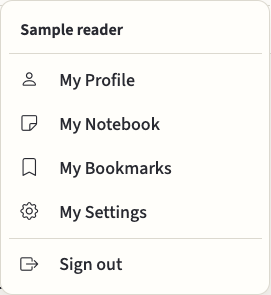
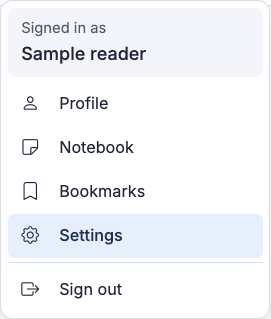
Give account dropdowns a distinct identity and navigation hierarchy

diff --git a/docs/design-system/library.html b/docs/design-system/library.html
@@ -33,7 +33,7 @@
   </section>
   <section id="navigation"><h2>Navigation &amp; discovery</h2>
     <div class="grid">
-      <article><h3>Site navigation preview</h3><picture><source media="(max-width: 700px)" srcset="shell/header-phone.png"><img src="shell/header.png" alt="Beta masthead with a left menu trigger, brand, navigation, search and account"></picture><p>Show full navigation from 992 px. The global search button uses an inset surface, the label “Search the library”, and a platform-specific keyboard shortcut. Leave .85 rem inside each end of the desktop pill, measured to the magnifier and shortcut respectively. Below 992 px, a magnifier opens the same dialog. Keep menu, search and account reachable at both sizes. Group the drawer into Read &amp; study, Memorize, Community and Personal. The signed-in avatar menu shows the account name, labeled personal destinations with drawer icons, and a separate sign-out row. The footer preview uses a compact Midnight band with a small wordmark and inline links. On phones, each navigation group starts a new row with touch-sized links.</p><p><a href="shell/account.png">View the avatar menu</a> · <a href="shell/menu.png">View the mobile menu</a> · <a href="shell/footer.png">View the desktop footer</a></p></article>
+      <article><h3>Site navigation preview</h3><picture><source media="(max-width: 700px)" srcset="shell/header-phone.png"><img src="shell/header.png" alt="Beta masthead with a left menu trigger, brand, navigation, search and account"></picture><p>Show full navigation from 992 px. The global search button uses an inset surface, the label “Search the library”, and a platform-specific keyboard shortcut. Leave .85 rem inside each end of the desktop pill, measured to the magnifier and shortcut respectively. Below 992 px, a magnifier opens the same dialog. Keep menu, search and account reachable at both sizes. Group the drawer into Read &amp; study, Memorize, Community and Personal. Dropdown hierarchy (under review): the avatar menu groups identity in an inset header, destinations in one icon column, and Sign out below a divider. Set the identity caption at .82rem Regular, the account name at 1rem Medium and destination rows at .9rem Regular. Mark the current destination with Medium and a tinted surface. Give each row at least 44px of height. The footer preview uses a compact Midnight band with a small wordmark and inline links. On phones, each navigation group starts a new row with touch-sized links.</p><p><a href="shell/account.png">View the avatar menu</a> · <a href="shell/menu.png">View the mobile menu</a> · <a href="shell/footer.png">View the desktop footer</a></p></article>
       <article><h3>Category rail &amp; local search</h3><picture><source media="(max-width: 700px)" srcset="settings/rail-mobile.png"><img src="settings/rail.png" alt="Compact Search settings field above the category links"></picture><p>Place the Settings category rail to the right of the panels, with the shared full-width rail search above its links. Books and Settings use the same field, funnel icon, clear button, focus ring and side gutters. Name its scope in the placeholder and accessible label. Below 992 px, the rail moves above the content and category links occupy two columns.</p><p>Match nested controls and asynchronously loaded catalogs. Announce the count or empty state. Clear and Escape restore the previous disclosures and return focus to the field.</p></article>
       <article><h3>Disclosure with current value</h3><img src="settings/disclosures.png" alt="Reading and listening rows with their saved values"><p>Group settings by task. Use a native details/summary row with a short label, current value or count, and a chevron. Place the summary below the label on narrow screens. Opening one row keeps the others available.</p></article>
     </div>

diff --git a/public/static/css/ux-shell.css b/public/static/css/ux-shell.css
@@ -89,17 +89,29 @@
   .ux-footer-inner { align-items: flex-start; flex-direction: column; }
 }
 
-.ux-masthead [data-profile-menu] {
-  width: min(15rem, calc(100vw - 1rem)); padding: .4rem; margin-top: .3rem;
+.ux-masthead .ux-dropdown {
+  width: min(15rem, calc(100vw - 1rem)); padding: .35rem; margin-top: .3rem;
   background: var(--shell-surface); color: var(--shell-ink); border: 1px solid var(--shell-line);
   border-radius: .7rem; box-shadow: 0 .5rem 1.5rem #1618251a;
 }
-.ux-account-name { padding: .55rem .65rem; margin-bottom: .25rem; border-bottom: 1px solid var(--shell-line); font-weight: var(--ux-heading-weight); overflow-wrap: anywhere; }
-.ux-masthead [data-profile-menu] .dropdown-item {
-  display: flex; align-items: center; gap: .7rem; min-height: 44px; padding: .35rem .65rem;
-  border-radius: .35rem; color: inherit; font: var(--ux-emphasis-weight) 1rem/1.35 var(--ux-font-ui);
+.ux-dropdown-identity {
+  display: grid; gap: .15rem; padding: .65rem .75rem; margin-bottom: .25rem;
+  background: var(--ivory-inset, var(--bs-tertiary-bg)); border-radius: .45rem;
 }
-.ux-masthead [data-profile-menu] .dropdown-item:is(:hover,:focus) { background: var(--bs-tertiary-bg); }
-.ux-masthead [data-profile-signout] { margin-top: .2rem; padding-top: .2rem; border-top: 1px solid var(--shell-line); }
+.ux-dropdown-caption { color: var(--bs-secondary-color); font: var(--ux-body-weight) var(--ux-caption-size)/1.35 var(--ux-font-ui); }
+.ux-account-name { font: var(--ux-emphasis-weight) 1rem/1.3 var(--ux-font-ui); overflow-wrap: anywhere; }
+.ux-masthead .ux-dropdown .dropdown-item {
+  display: flex; align-items: center; gap: .65rem; min-height: 44px; padding: .35rem .75rem;
+  border-radius: .35rem; color: inherit; font: var(--ux-body-weight) var(--ux-local-nav-size)/1.4 var(--ux-font-ui);
+}
+.ux-masthead .ux-dropdown .dropdown-item[aria-current="page"] {
+  color: var(--ivory-heading, var(--shell-ink)); background: var(--ivory-selected, var(--bs-secondary-bg)); font-weight: var(--ux-emphasis-weight);
+}
+.ux-masthead .ux-dropdown .dropdown-item:is(:hover,:focus) { background: var(--bs-tertiary-bg); }
+.ux-masthead .ux-dropdown .dropdown-item:focus-visible { outline: 2px solid var(--ivory-accent, currentColor); outline-offset: -2px; }
+.ux-dropdown [data-profile-signout] { margin-top: .25rem; padding-top: .25rem; border-top: 1px solid var(--shell-line); }
+.ux-dropdown .admin-menu-divider:has(+ [data-profile-signout]) { display: none; }
+.ux-dropdown .admin-page-link .dropdown-item { padding-inline-start: calc(.75rem + 20px + .65rem); }
+.ux-dropdown .dropdown-item[aria-current="page"] .app-menu-icon,
 :is(.ux-masthead, .books-beta) .app-menu-icon { color: inherit !important; }
 [data-bs-theme="dark"] :is(.ux-masthead, .books-beta) .app-menu-icon-img { filter: brightness(0) invert(1); }

diff --git a/spec/profileMenu.spec.js b/spec/profileMenu.spec.js
@@ -20,6 +20,7 @@ test('signed-in menus preserve destinations on desktop/mobile and sign-out remov
  w.renderMenu({displayName:'User',photoURL:'https://example.test/photo.png'});
  expect(w.document.querySelectorAll('[data-profile-menu]')).toHaveLength(2);
  for(const menu of w.document.querySelectorAll('[data-profile-menu]')){
+  expect(menu.querySelector('[data-profile-link]').textContent).toBe('My Profile');
   expect(menu.querySelector('[data-profile-link]').href).toBe('https://hadith.test/community/mine');
   expect(menu.querySelector('[data-settings-link]').pathname).toBe('/quran/settings');
   expect(menu.querySelector('[data-notebook-link]').pathname).toBe('/notebook');
@@ -63,4 +64,18 @@ test.each(['inline','legacy'])('%s admin rendering only adds verified links insi
 test('a rejected admin session never adds the Admin link',async()=>{
  const dom=setup(),w=dom.window;
  try{w.fetch=jest.fn(async()=>({ok:false}));w.hadithAdmin=true;w.renderMenu({displayName:'User'});await w.ensureAdminPageLinks();expect(w.document.querySelectorAll('.admin-page-link')).toHaveLength(0);}finally{w.close();}
+});
+
+test('makeover profile menus distinguish account identity and the current destination', () => {
+ const dom = setup(), w = dom.window;
+ try {
+  w.document.body.classList.add('ux-masthead');
+  w.history.replaceState(null, '', '/quran/settings');
+  w.renderMenu({ displayName: 'Sample reader' });
+  for (const menu of w.document.querySelectorAll('[data-profile-menu]')) {
+   expect(menu.querySelector('.ux-account-name').textContent).toBe('Sample reader');
+   expect(menu.querySelector('[data-profile-link]').textContent).toBe('Profile');
+   expect(menu.querySelector('[aria-current="page"]')).toBe(menu.querySelector('[data-settings-link]'));
+  }
+ } finally { w.close(); }
 });

diff --git a/spec/headerNavigation.spec.js b/spec/headerNavigation.spec.js
@@ -87,7 +87,6 @@ describe('shared header navigation', () => {
       expect(source).toContain("document.querySelectorAll('[data-profile-menu], #offcanvas-topnav .offcanvas-col1')");
       expect(source).not.toContain('authItem.after(item)');
     }
-    expect(inlineScripts).toContain('>My Profile</a>');
     expect(header).toContain('data-settings-href="<%= settingsHref %>"');
     expect(header).not.toMatch(/<button[^>]*id="nav-auth-mobile"/);
   });

diff --git a/skills/hadithdb-ux-audit/SKILL.md b/skills/hadithdb-ux-audit/SKILL.md
@@ -30,6 +30,7 @@ Concrete Settings comparisons to carry forward:
 - **Overlay dismissal.** Compare the X on a drawer, a native dialog and a Bootstrap modal, including dynamically built overlays. At matching widths and themes, inspect the glyph, target, focus ring and hover surface. Activate the X and verify focus returns to the opener. Run `node skills/hadithdb-ux-audit/scripts/compare-overlay-close.js` against local Books beta.
 - **Spacing inside compound controls.** Measure both inner edges in the rendered control, from its boundary to the leading icon and trailing accessory. Compare those distances with the intended insets at the breakpoint and at a wider viewport. Check the winning CSS when dimensions differ. For the beta header, run `node skills/hadithdb-ux-audit/scripts/check-search-insets.js` against the local app.
 - **Shared navigation.** On routes with a fixed header, measure how much of the first phone viewport remains for content. Open a later collection directly and check that its active tab is visible. Measure immediately below and above each breakpoint, then repeat after scrolling. Check icon hit areas, drawer focus and Escape return, including overlap with persistent bottom controls. Compare the footer height, surface and type scale with the last content section on desktop and phone. At the end of the list, activate footer links above the bottom controls.
+- **Dropdowns.** Inspect an opened menu with a long account name, a current destination, and conditional admin controls. Compare the identity, destination and action weights, icon alignment, separators and touch targets. Check viewport fit, arrow navigation and Escape focus return on desktop and phone.
 - **Right rails.** Compare the page-title and rail-title boxes, their clearance below the rendered header, and the space to the next section or search field. Check initial load, collection switches, wrapped headings and the stacked mobile layout. Compare the rail’s left edge, width and sticky offset across routes. Measure the local filter’s edges inside the rail and compare its empty, focused and populated states, including the clear control. Resize through the desktop breakpoint with a filter active and confirm the same controls and results remain available.
 - **Toolbars.** Open Reciters, Translations, and Tafsir together. Compare the location of the count or description, Enable all, and the Tile / Full selector where present. Check the alignment again when the rail moves above the content and when all entries are enabled.
 
